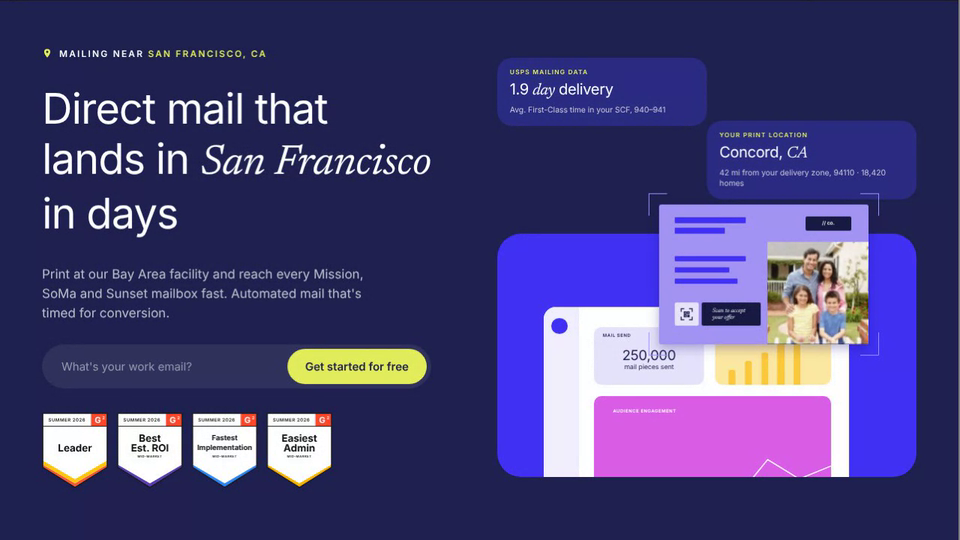
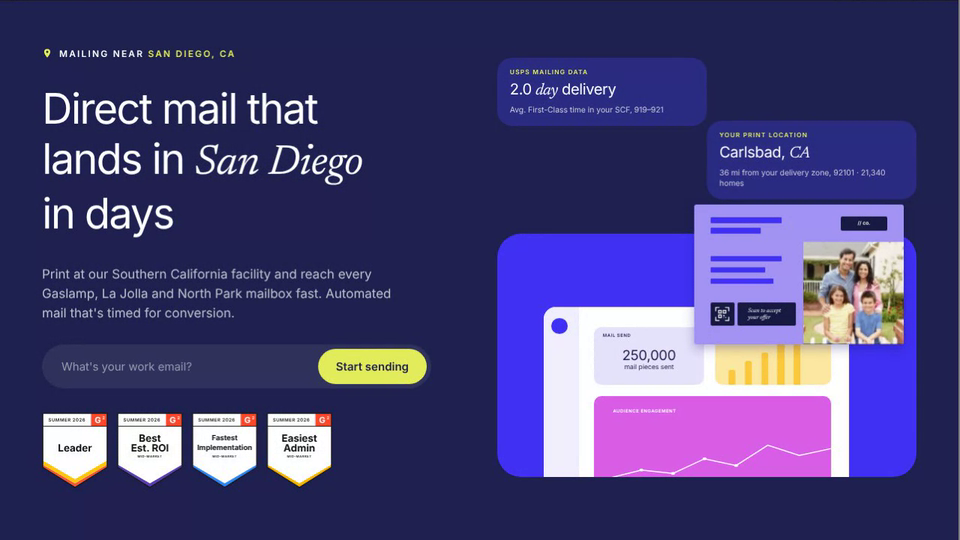
Location Hero: San Diego, tighter title, no crosshairs, chart up, new QR, postcard right, Start sending CTA
Claude-Session: https://claude.ai/code/session_01AHeBdxeACcd88pkrxSw1Hy

diff --git a/location-hero/index.html b/location-hero/index.html
@@ -23,7 +23,7 @@ nav.back span{color:#6e6e6e}nav.back b{font-weight:500;color:#fff;overflow:hidde
 .chip{display:inline-flex;align-items:center;gap:9px;font-size:12px;font-weight:600;letter-spacing:.18em;text-transform:uppercase}
 .chip svg{width:14px;height:14px;fill:var(--lime)}
 .chip em{font-style:normal;color:var(--lime)}
-h1{font-weight:400;font-size:clamp(34px,4.4vw,58px);line-height:1.18;letter-spacing:-.02em;margin:30px 0 34px;white-space:nowrap}
+h1{font-weight:400;font-size:clamp(34px,4.4vw,58px);line-height:1.18;letter-spacing:-2px;margin:30px 0 34px;white-space:nowrap}
 h1 i{font-family:var(--serif);font-style:italic;letter-spacing:-.01em}
 .sw{display:inline-block;transition:opacity .35s,transform .35s,filter .35s}
 .sw.out{opacity:0;transform:translateY(10px);filter:blur(6px)}
@@ -57,31 +57,29 @@ h1 i{font-family:var(--serif);font-style:italic;letter-spacing:-.01em}
 .t2{left:56%;top:9%;width:38%;height:26%;background:var(--yel)}
 .t2 i{position:absolute;bottom:0;width:6%;background:var(--yel2);border-radius:3px 3px 0 0}
 .t3{left:16.5%;top:40%;width:77.5%;height:60%;background:var(--pink)}
-.t3 svg{position:absolute;left:0;bottom:0;width:100%;height:80%}
-.mail{position:absolute;left:38.5%;top:35%;width:50%;aspect-ratio:1.5;border-radius:3px;overflow:hidden;box-shadow:0 .8cqw 2.4cqw rgba(20,10,120,.3)}
+.t3 svg{position:absolute;left:0;top:22%;width:100%;height:42%}
+.mail{position:absolute;left:47%;top:35%;width:50%;aspect-ratio:1.5;border-radius:3px;overflow:hidden;box-shadow:0 .8cqw 2.4cqw rgba(20,10,120,.3)}
 .pc{position:absolute;inset:0;background:#a393f5}
 .el{position:absolute}
 .bar{background:var(--purple);border-radius:1px}
 .tag{background:var(--deep);color:#fff;border-radius:2px;font:600 1.2cqw/1 var(--sans);display:flex;align-items:center;justify-content:center}
-.qr{background:var(--lav2);border-radius:2px;display:grid;place-items:center}
-.qr svg{width:62%;height:62%}
+.qr{background:var(--deep);border-radius:2px;display:grid;place-items:center}
+.qr svg{width:66%;height:66%}
 .scan{background:var(--deep);color:#fff;border-radius:2px;font:italic 400 1.4cqw/1.15 var(--serif);display:flex;align-items:center;padding:0 5%}
 .ph{object-fit:cover;border-radius:0}
-.crop{position:absolute;left:38.5%;top:35%;width:50%;aspect-ratio:1.5;pointer-events:none}
-.crop:before{content:"";position:absolute;inset:-8% -5%;background:linear-gradient(#9d95ff,#9d95ff) 0 0/8% 1px,linear-gradient(#9d95ff,#9d95ff) 0 0/1px 14%,linear-gradient(#9d95ff,#9d95ff) 100% 0/8% 1px,linear-gradient(#9d95ff,#9d95ff) 100% 0/1px 14%,linear-gradient(#9d95ff,#9d95ff) 0 100%/8% 1px,linear-gradient(#9d95ff,#9d95ff) 0 100%/1px 14%,linear-gradient(#9d95ff,#9d95ff) 100% 100%/8% 1px,linear-gradient(#9d95ff,#9d95ff) 100% 100%/1px 14%;background-repeat:no-repeat}
 @media(max-width:900px){.hero{grid-template-columns:1fr;padding:24px 20px 28px}.stage{justify-self:center}.sub{min-height:0}h1{white-space:normal}}
 @media(prefers-reduced-motion:reduce){.sw,.bl{transition:none}}
 </style>
 </head>
 <body>
 <nav class="back" aria-label="Sandbox"><a href="../">Sandbox</a><span class="x">/</span><a class="x" href="../">Back to all projects</a><span>/</span><b>Location Hero</b>
-<div class="tog" role="group" aria-label="Preview location"><button class="on" data-i="0">San Francisco</button><button data-i="1">Miami</button></div></nav>
+<div class="tog" role="group" aria-label="Preview location"><button class="on" data-i="0">San Diego</button><button data-i="1">Miami</button></div></nav>
 <main class="hero">
   <section>
-    <div class="chip"><svg viewBox="0 0 24 24"><path d="M12 2a7 7 0 0 0-7 7c0 5.2 7 13 7 13s7-7.8 7-13a7 7 0 0 0-7-7zm0 9.5a2.5 2.5 0 1 1 0-5 2.5 2.5 0 0 1 0 5z"/></svg><span>Mailing near <em class="sw" id="city">San Francisco, CA</em></span></div>
-    <h1><span class="sw" id="h1">Direct mail that<br>lands in <i>San Francisco</i><br>in days</span></h1>
-    <p class="sub sw" id="sub">Print at our Bay Area facility and reach every Mission, SoMa and Sunset mailbox fast. Automated mail that's timed for conversion.</p>
-    <form class="form" onsubmit="return false"><input type="email" placeholder="What's your work email?" aria-label="Work email"><button>Get started for free</button></form>
+    <div class="chip"><svg viewBox="0 0 24 24"><path d="M12 2a7 7 0 0 0-7 7c0 5.2 7 13 7 13s7-7.8 7-13a7 7 0 0 0-7-7zm0 9.5a2.5 2.5 0 1 1 0-5 2.5 2.5 0 0 1 0 5z"/></svg><span>Mailing near <em class="sw" id="city">San Diego, CA</em></span></div>
+    <h1><span class="sw" id="h1">Direct mail that<br>lands in <i>San Diego</i><br>in days</span></h1>
+    <p class="sub sw" id="sub">Print at our Southern California facility and reach every Gaslamp, La Jolla and North Park mailbox fast. Automated mail that's timed for conversion.</p>
+    <form class="form" onsubmit="return false"><input type="email" placeholder="What's your work email?" aria-label="Work email"><button>Start sending</button></form>
     <div class="g2" id="g2" aria-label="G2 awards"></div>
   </section>
 
@@ -103,18 +101,17 @@ h1 i{font-family:var(--serif);font-style:italic;letter-spacing:-.01em}
         <div class="el bar" style="left:7.7%;top:37%;width:34%;height:3.6%"></div>
         <div class="el bar" style="left:7.7%;top:45%;width:26%;height:3.6%"></div>
         <div class="el bar" style="left:7.7%;top:53%;width:30%;height:3.6%"></div>
-        <div class="el qr" style="left:7.7%;top:70%;width:11.4%;height:17%"><svg viewBox="0 0 24 24" fill="none" stroke="#171a42" stroke-width="1.5"><path d="M3 8V3h5M16 3h5v5M21 16v5h-5M8 21H3v-5"/><rect x="8" y="8" width="3" height="3"/><rect x="13" y="8" width="3" height="3"/><rect x="8" y="13" width="3" height="3"/><path d="M13.5 13.5h2.5v2.5h-2.5z" fill="#171a42"/></svg></div>
+        <div class="el qr" style="left:7.7%;top:70%;width:11.4%;height:17%"><svg viewBox="0 0 24 24" fill="none" stroke="#fff" stroke-width="1.4" stroke-linecap="square"><path d="M2 7V2h5M17 2h5v5M22 17v5h-5M7 22H2v-5"/><rect x="6.5" y="6.5" width="4" height="4"/><rect x="13.5" y="6.5" width="4" height="4"/><rect x="6.5" y="13.5" width="4" height="4"/><path d="M13.5 13.5h2v2h-2zM16.5 16.5h1.500v1.500h-1.500zM13.5 17h1v1h-1z" fill="#fff" stroke="none"/></svg></div>
         <div class="el scan" style="left:20.6%;top:70%;width:28%;height:17%">Scan to accept your offer</div>
         <img class="el ph" src="photo.jpg" alt="Family in front of their home" style="left:52%;top:27%;width:48%;height:73%">
       </div></div>
-    <div class="crop"></div>
-  </div>
+      </div>
 </main>
 <script>
 const CITIES=[
- {city:'San Francisco, CA',h:'Direct mail that<br>lands in <i>San Francisco</i><br>in days',sub:"Print at our Bay Area facility and reach every Mission, SoMa and Sunset mailbox fast. Automated mail that's timed for conversion.",
-  b1:['USPS mailing data','1.9 <i>day</i> delivery','Avg. First-Class time in your SCF, 940–941'],
-  b2:['Your print location','Concord, <i>CA</i>','42 mi from your delivery zone, 94110 · 18,420 homes']},
+ {city:'San Diego, CA',h:'Direct mail that<br>lands in <i>San Diego</i><br>in days',sub:"Print at our Southern California facility and reach every Gaslamp, La Jolla and North Park mailbox fast. Automated mail that's timed for conversion.",
+  b1:['USPS mailing data','2.0 <i>day</i> delivery','Avg. First-Class time in your SCF, 919–921'],
+  b2:['Your print location','Carlsbad, <i>CA</i>','36 mi from your delivery zone, 92101 · 21,340 homes']},
  {city:'Miami, FL',h:'Direct mail that<br>lands in <i>Miami</i><br>in days',sub:"Print at our Florida facility and reach every Brickell, Wynwood and Coral Gables mailbox fast. Automated mail that's timed for conversion.",
   b1:['USPS mailing data','2.3 <i>day</i> delivery','Avg. First-Class time in your SCF, 331–332'],
   b2:['Your print location','Orlando, <i>FL</i>','235 mi from your delivery zone, 33131 · 24,760 homes']}];
